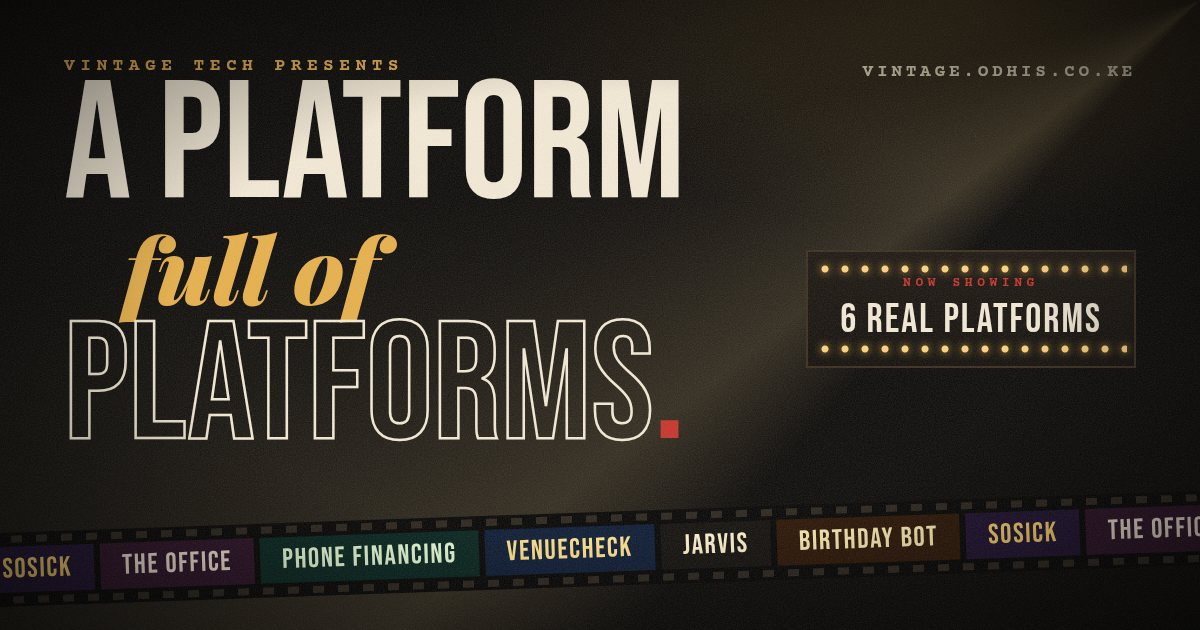
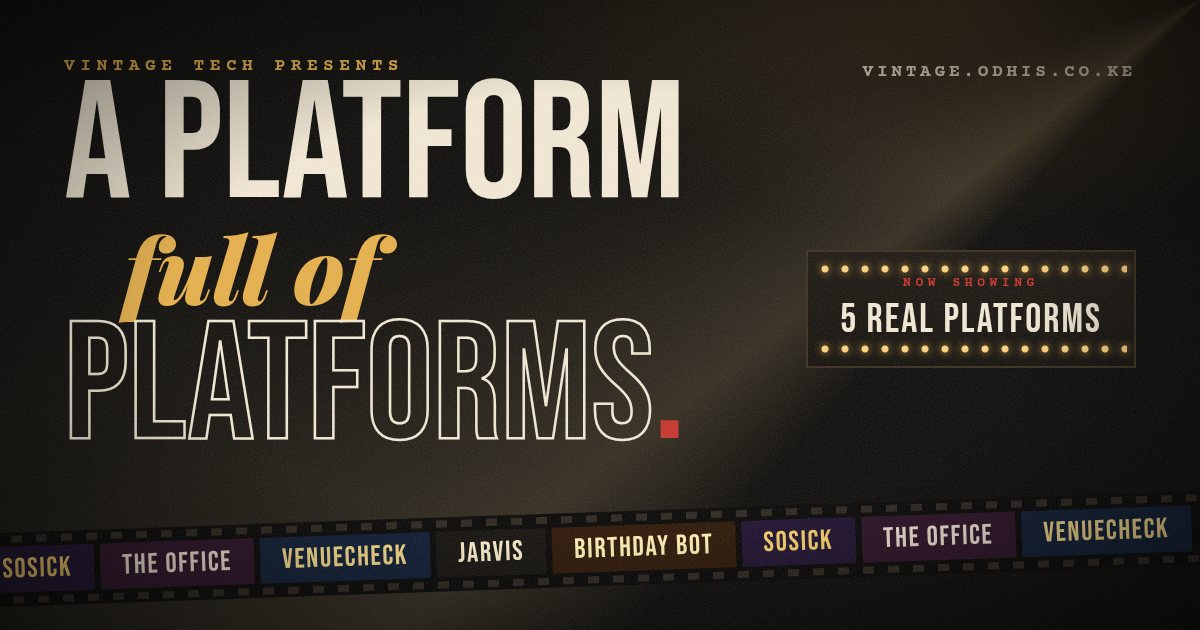
Remove Phone Financing from the public site (listing, hero line, share image)

Changed region(s): [[0.2158, 0.8143, 1.0, 0.9349], [0.6783, 0.4825, 0.7092, 0.5127]]

diff --git a/assets/data.js b/assets/data.js
@@ -18,7 +18,7 @@ window.VT = {
     { id: "vintage", name: "Vintage Tech", city: "Nairobi", verified: true }
   ],
 
-  genres: ["Commerce", "Business", "Finance", "Campus", "Assistants", "Bots"],
+  genres: ["Commerce", "Business", "Campus", "Assistants", "Bots"],
 
   platforms: [
     {
@@ -61,27 +61,6 @@ window.VT = {
         "Quote PDFs stored privately, owner-only access",
         "Phone reminders before meetings",
         "Built-in assistant for everyday questions"
-      ]
-    },
-    {
-      id: "pfs",
-      title: "Phone Financing",
-      tagline: "Phones on instalments. M-PESA does the rest.",
-      genre: "Finance",
-      studio: "vintage",
-      status: "private",
-      link: null,
-      price: null,
-      palette: ["#06231d", "#38d39f", "#e9ffd9"],
-      glyph: "▲",
-      story: "A full phone-financing system running for a Nairobi business. Managers add phones, agents sell them on instalments, customers pay by M-PESA, and the system keeps the books, pays commission and follows up on late loans.",
-      cast: ["Java + Spring Boot", "PostgreSQL", "Apache Fineract (loan ledger)", "M-PESA Daraja API", "Docker on AWS"],
-      features: [
-        "Loans with instalment plans and interest per phone",
-        "M-PESA payments in, commission payouts out",
-        "Agents, managers and a full ledger",
-        "Overdue follow-up, with device locking in testing",
-        "Runs on its own cloud server with backups"
       ]
     },
     {

diff --git a/index.html b/index.html
@@ -10,7 +10,7 @@
   <meta property="og:description" content="Now showing: real platforms, built in Nairobi. Pick one, make it yours.">
   <meta property="og:url" content="https://vintage.odhis.co.ke/">
   <meta property="og:type" content="website">
-  <meta property="og:image" content="https://vintage.odhis.co.ke/assets/og.jpg">
+  <meta property="og:image" content="https://vintage.odhis.co.ke/assets/og.jpg?v=2">
   <meta property="og:image:width" content="1200">
   <meta property="og:image:height" content="630">
   <meta name="twitter:card" content="summary_large_image">
@@ -76,7 +76,7 @@
           <span class="ht-b">full of</span>
           <span class="ht-c">platforms<span class="dot">.</span></span>
         </h1>
-        <p class="hero-sub">Shops that deliver. Offices in your pocket. Finance on M&#8209;PESA. Every platform here is real, running, and ready to be <em>yours</em>.</p>
+        <p class="hero-sub">Shops that deliver. Offices in your pocket. Bots that remember. Every platform here is real, running, and ready to be <em>yours</em>.</p>
         <div class="hero-cta">
           <a class="btn btn-ticket" href="#showing">See what's showing</a>
           <a class="btn btn-ghost" href="#studios">Sell your platform</a>
@@ -200,7 +200,7 @@
     </div>
   </dialog>
 
-  <script src="assets/data.js?v=2"></script>
+  <script src="assets/data.js?v=3"></script>
   <script src="assets/app.js?v=2"></script>
 </body>
 </html>
